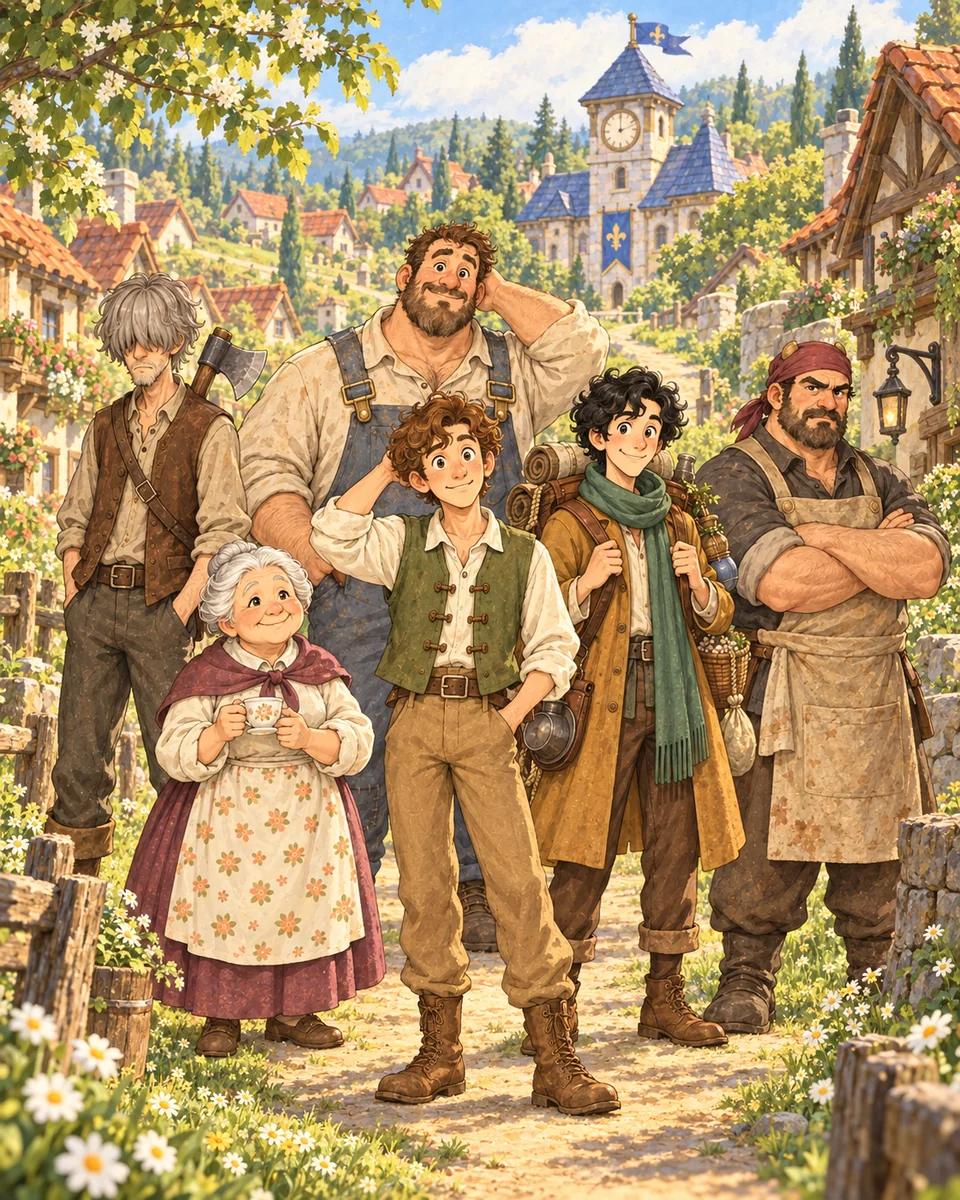
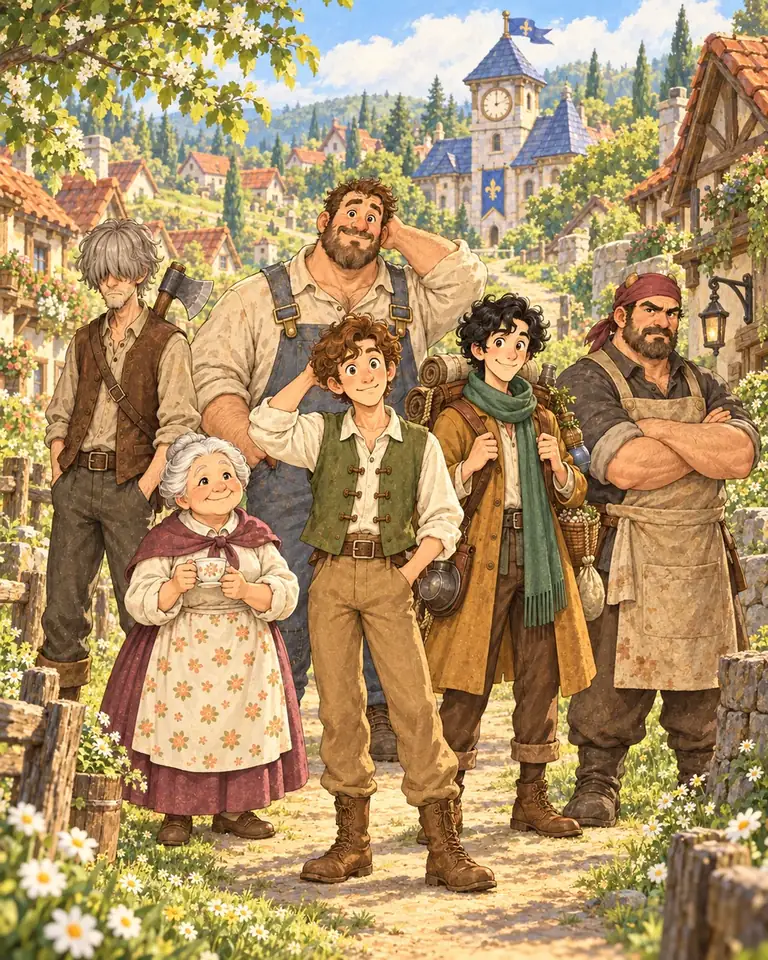
Lighten portrait loading art to 151KB (keep source) and fix its intrinsic size
Claude-Session: https://claude.ai/code/session_01L5ommXKhkk8Jy4sNawLoo3

Changed region(s): [[0.0, 0.6562, 0.0312, 0.7188], [0.875, 0.8125, 0.9062, 0.8438], [0.75, 0.5312, 0.7812, 0.5625]]

diff --git a/index.html b/index.html
@@ -265,7 +265,7 @@ body.sheet-open .hud{visibility:hidden}
 </style>
 
 </head>
-<body data-art-loading><div id="art-loading" role="status" aria-live="polite"><div class="load-bg" aria-hidden="true"></div><div class="load-card"><figure class="load-art" aria-hidden="true"><img src="./assets/ui/loading.webp" width="840" height="560" alt="" fetchpriority="high" onload="document.getElementById('art-loading').classList.add('art-on')"></figure><h1 class="load-title"><small>알고보니</small>초보자 마을이 <b>Lv999</b></h1><div class="load-bar" aria-hidden="true"><i id="art-bar"></i></div><small id="art-progress">마을 그림을 불러오는 중…</small><p class="load-tip" id="load-tip">이 마을 주민들은 모두 평범합니다. 아마도.</p></div></div>
+<body data-art-loading><div id="art-loading" role="status" aria-live="polite"><div class="load-bg" aria-hidden="true"></div><div class="load-card"><figure class="load-art" aria-hidden="true"><img src="./assets/ui/loading.webp" width="768" height="960" alt="" fetchpriority="high" onload="document.getElementById('art-loading').classList.add('art-on')"></figure><h1 class="load-title"><small>알고보니</small>초보자 마을이 <b>Lv999</b></h1><div class="load-bar" aria-hidden="true"><i id="art-bar"></i></div><small id="art-progress">마을 그림을 불러오는 중…</small><p class="load-tip" id="load-tip">이 마을 주민들은 모두 평범합니다. 아마도.</p></div></div>
 <canvas id="cv" aria-label="마을 지도"></canvas>
 
 <div class="hud" id="hud">
